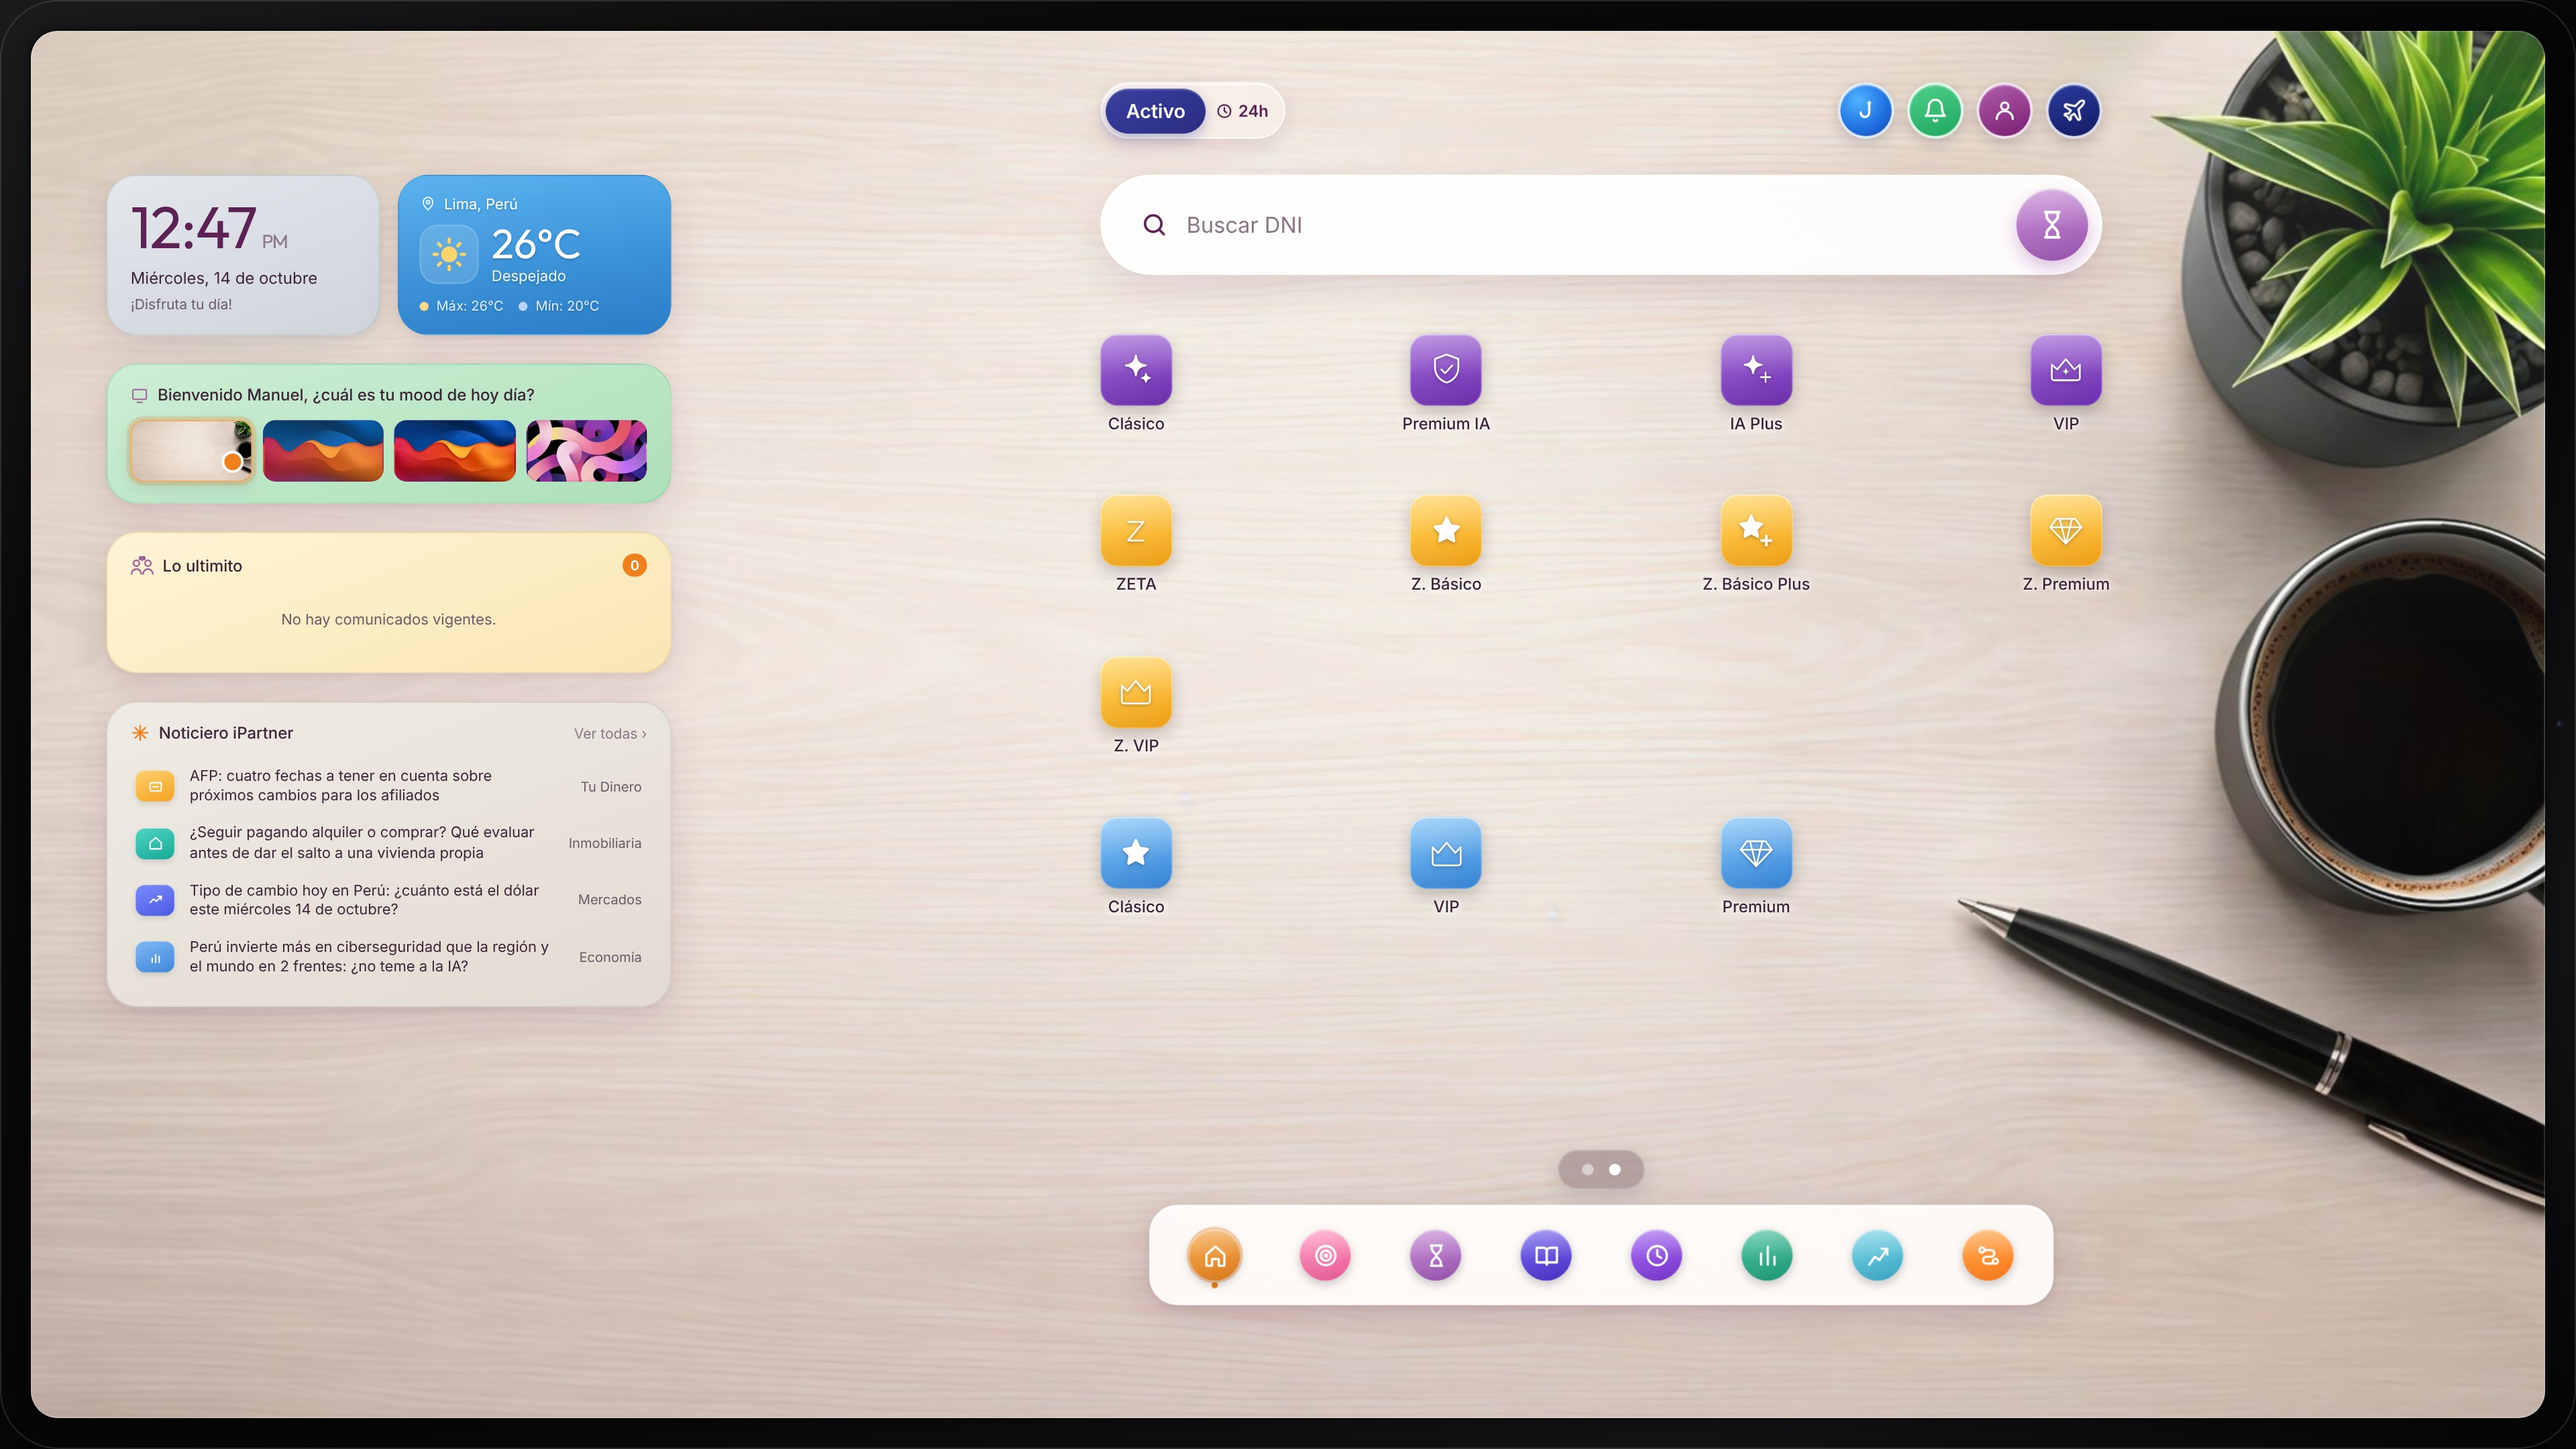
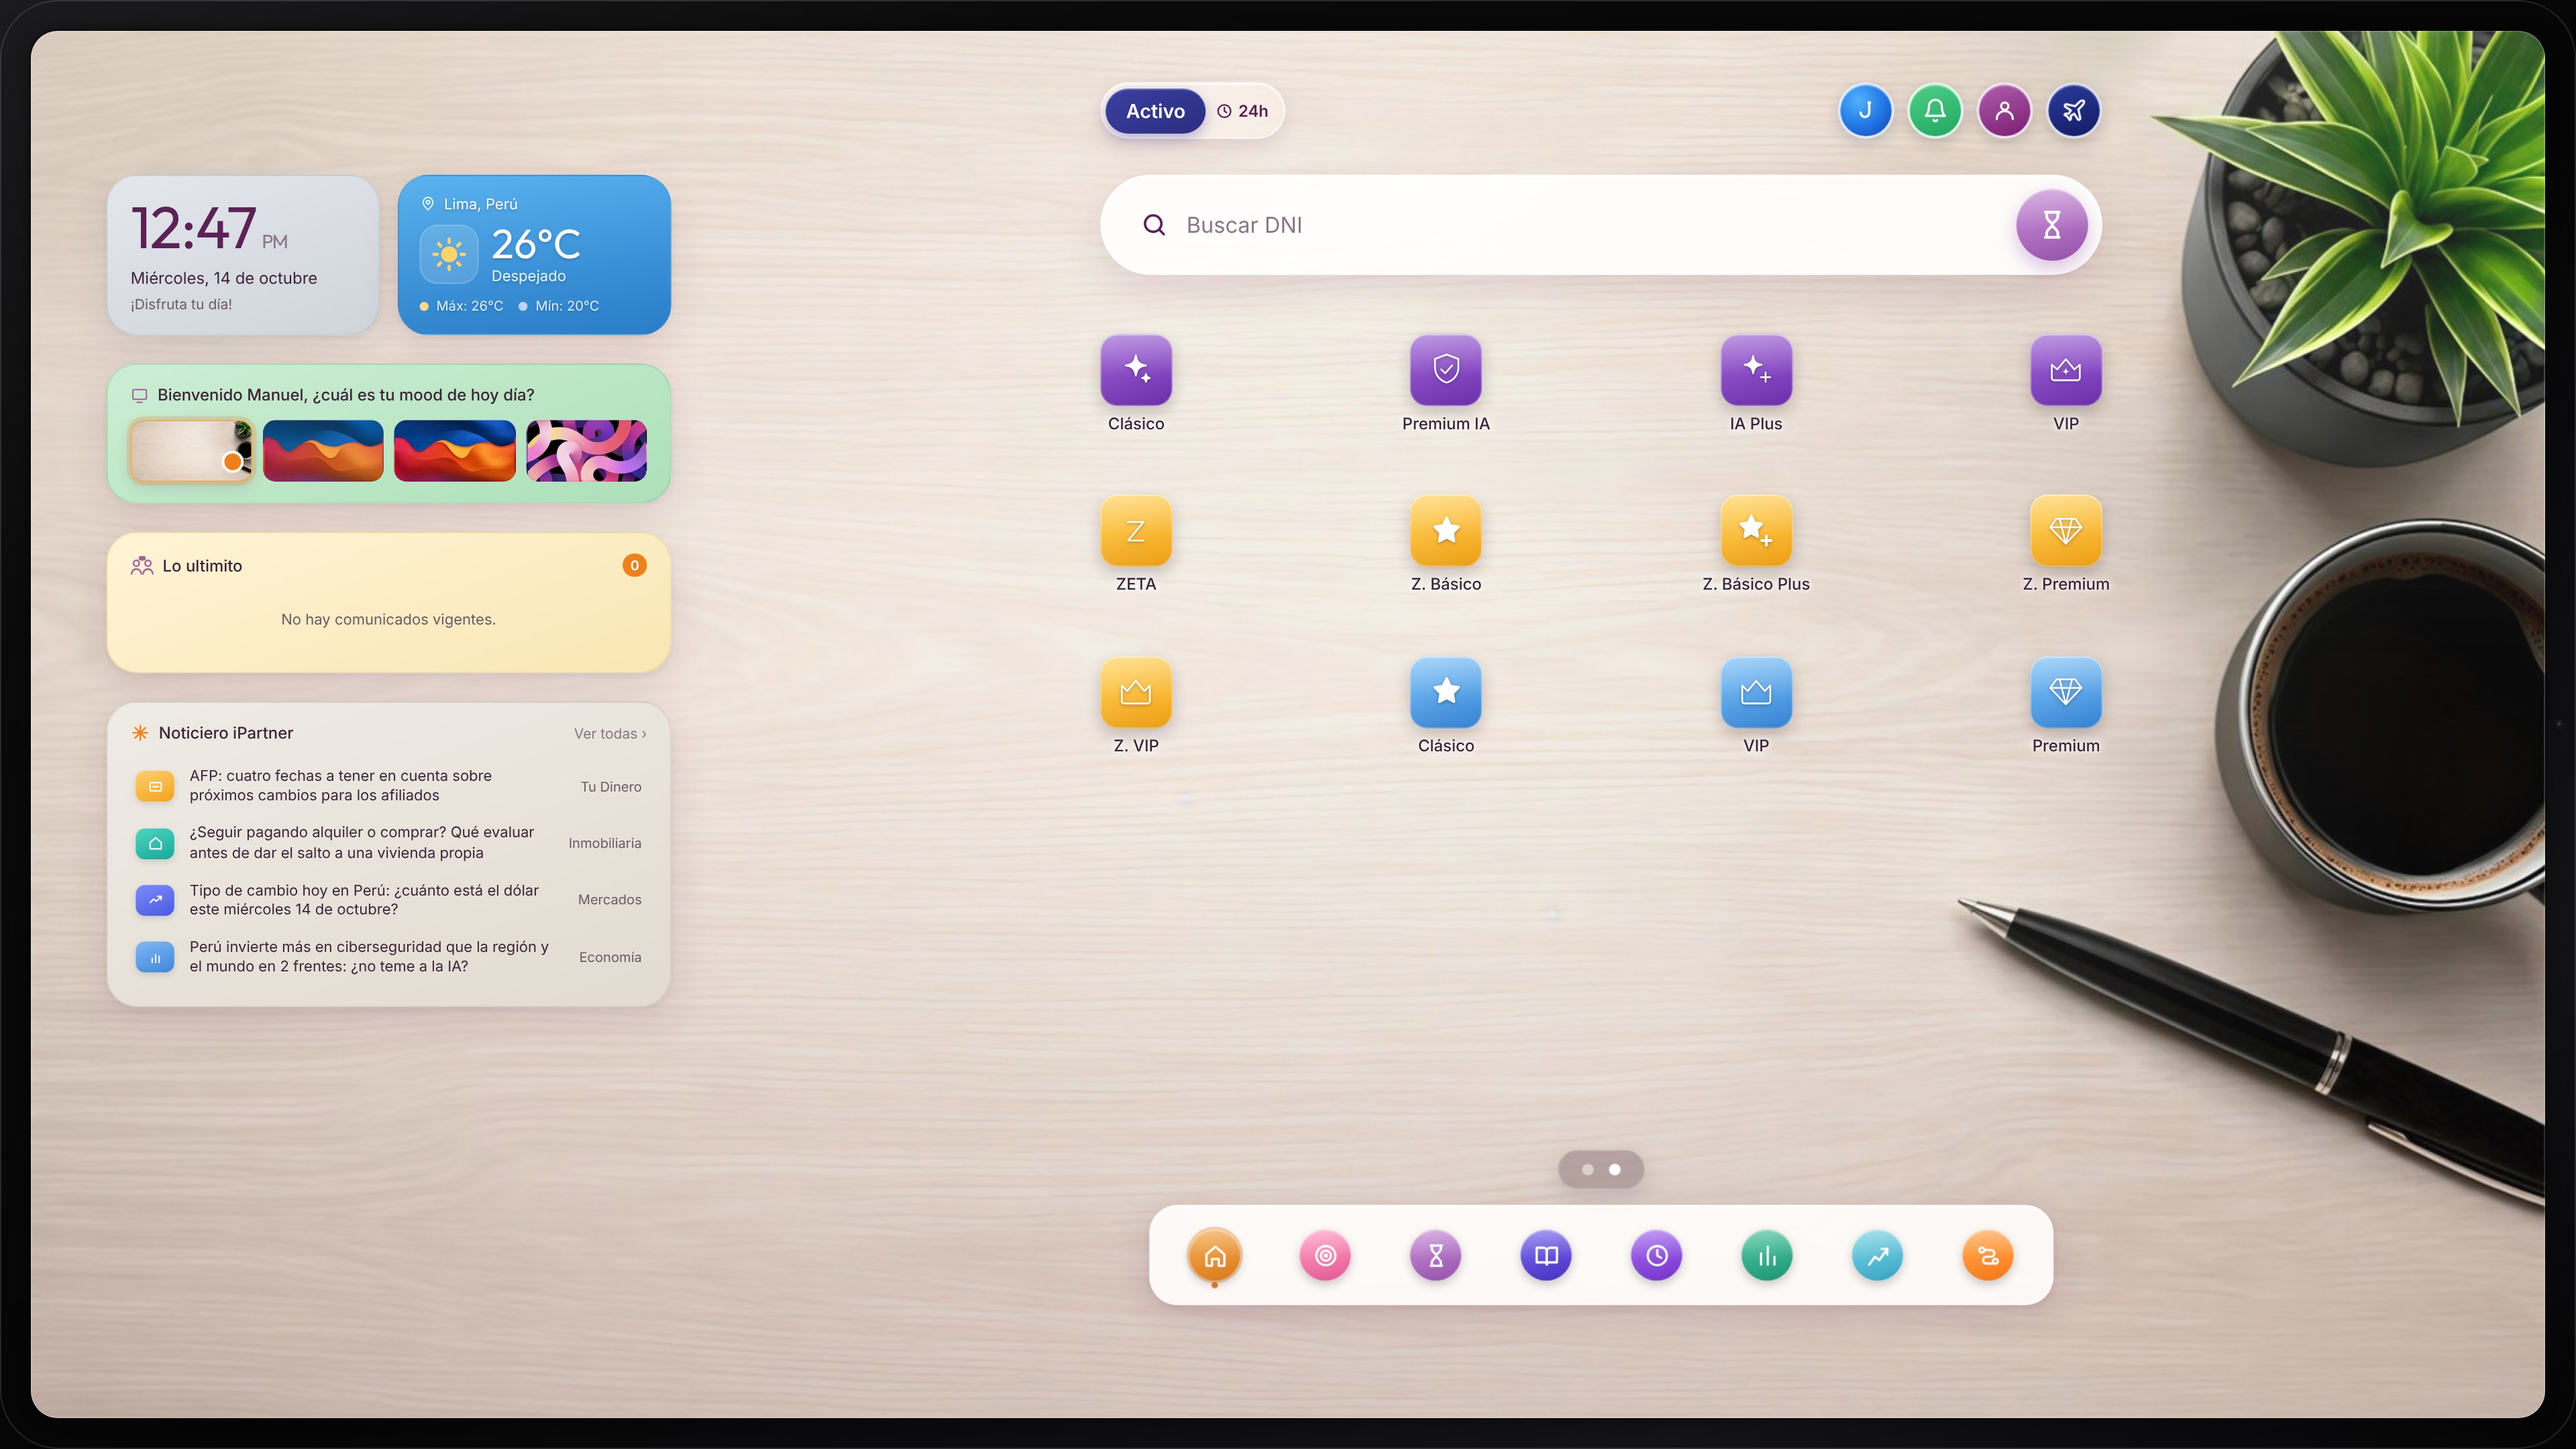
Home: Clásico, VIP y Premium junto a Z. VIP en la pantalla 2
Los Clásicos ya no empiezan fila propia: completan la tercera fila al
lado de Z. VIP y la pantalla 2 queda en 3 filas completas. Capturas
actualizadas.

Claude-Session: https://claude.ai/code/session_01KT8NTYu2Ge9wagQ7cc8Njn

diff --git a/home/ipartner-home.html b/home/ipartner-home.html
@@ -1391,7 +1391,7 @@ header .sesion{grid-column:2;justify-self:center!important;width:780px;justify-c
           <span class="chip-ico"><svg viewBox="0 0 48 48" fill="none" stroke="#fff" stroke-width="2.4" stroke-linecap="round" stroke-linejoin="round"><path d="M6 16l7 7 11-13 11 13 7-7v20a3 3 0 0 1-3 3H9a3 3 0 0 1-3-3V16Z"/></svg></span>
           <span class="chip-lbl">Z. VIP</span>
         </button>
-        <button class="chip-app k-g-clasicos fila-nueva" data-id="clasico" aria-label="Clásico" title="Clásico">
+        <button class="chip-app k-g-clasicos" data-id="clasico" aria-label="Clásico" title="Clásico">
           <span class="chip-ico"><svg viewBox="0 0 48 48" fill="#fff"><path d="M24 5.2c.7 0 1.3.4 1.6 1l4.2 8.9 9.4 1.4c.7.1 1.3.6 1.5 1.3.2.7 0 1.4-.5 1.9l-6.8 6.8 1.6 9.7c.1.7-.2 1.4-.7 1.8-.6.4-1.3.5-1.9.1L24 33.6l-8.4 4.6c-.6.3-1.4.3-1.9-.1-.6-.4-.9-1.1-.7-1.8l1.6-9.7-6.8-6.8c-.5-.5-.7-1.2-.5-1.9.2-.7.8-1.2 1.5-1.3l9.4-1.4 4.2-8.9c.3-.6.9-1 1.6-1Z"/></svg></span>
           <span class="chip-lbl">Clásico</span>
         </button>
